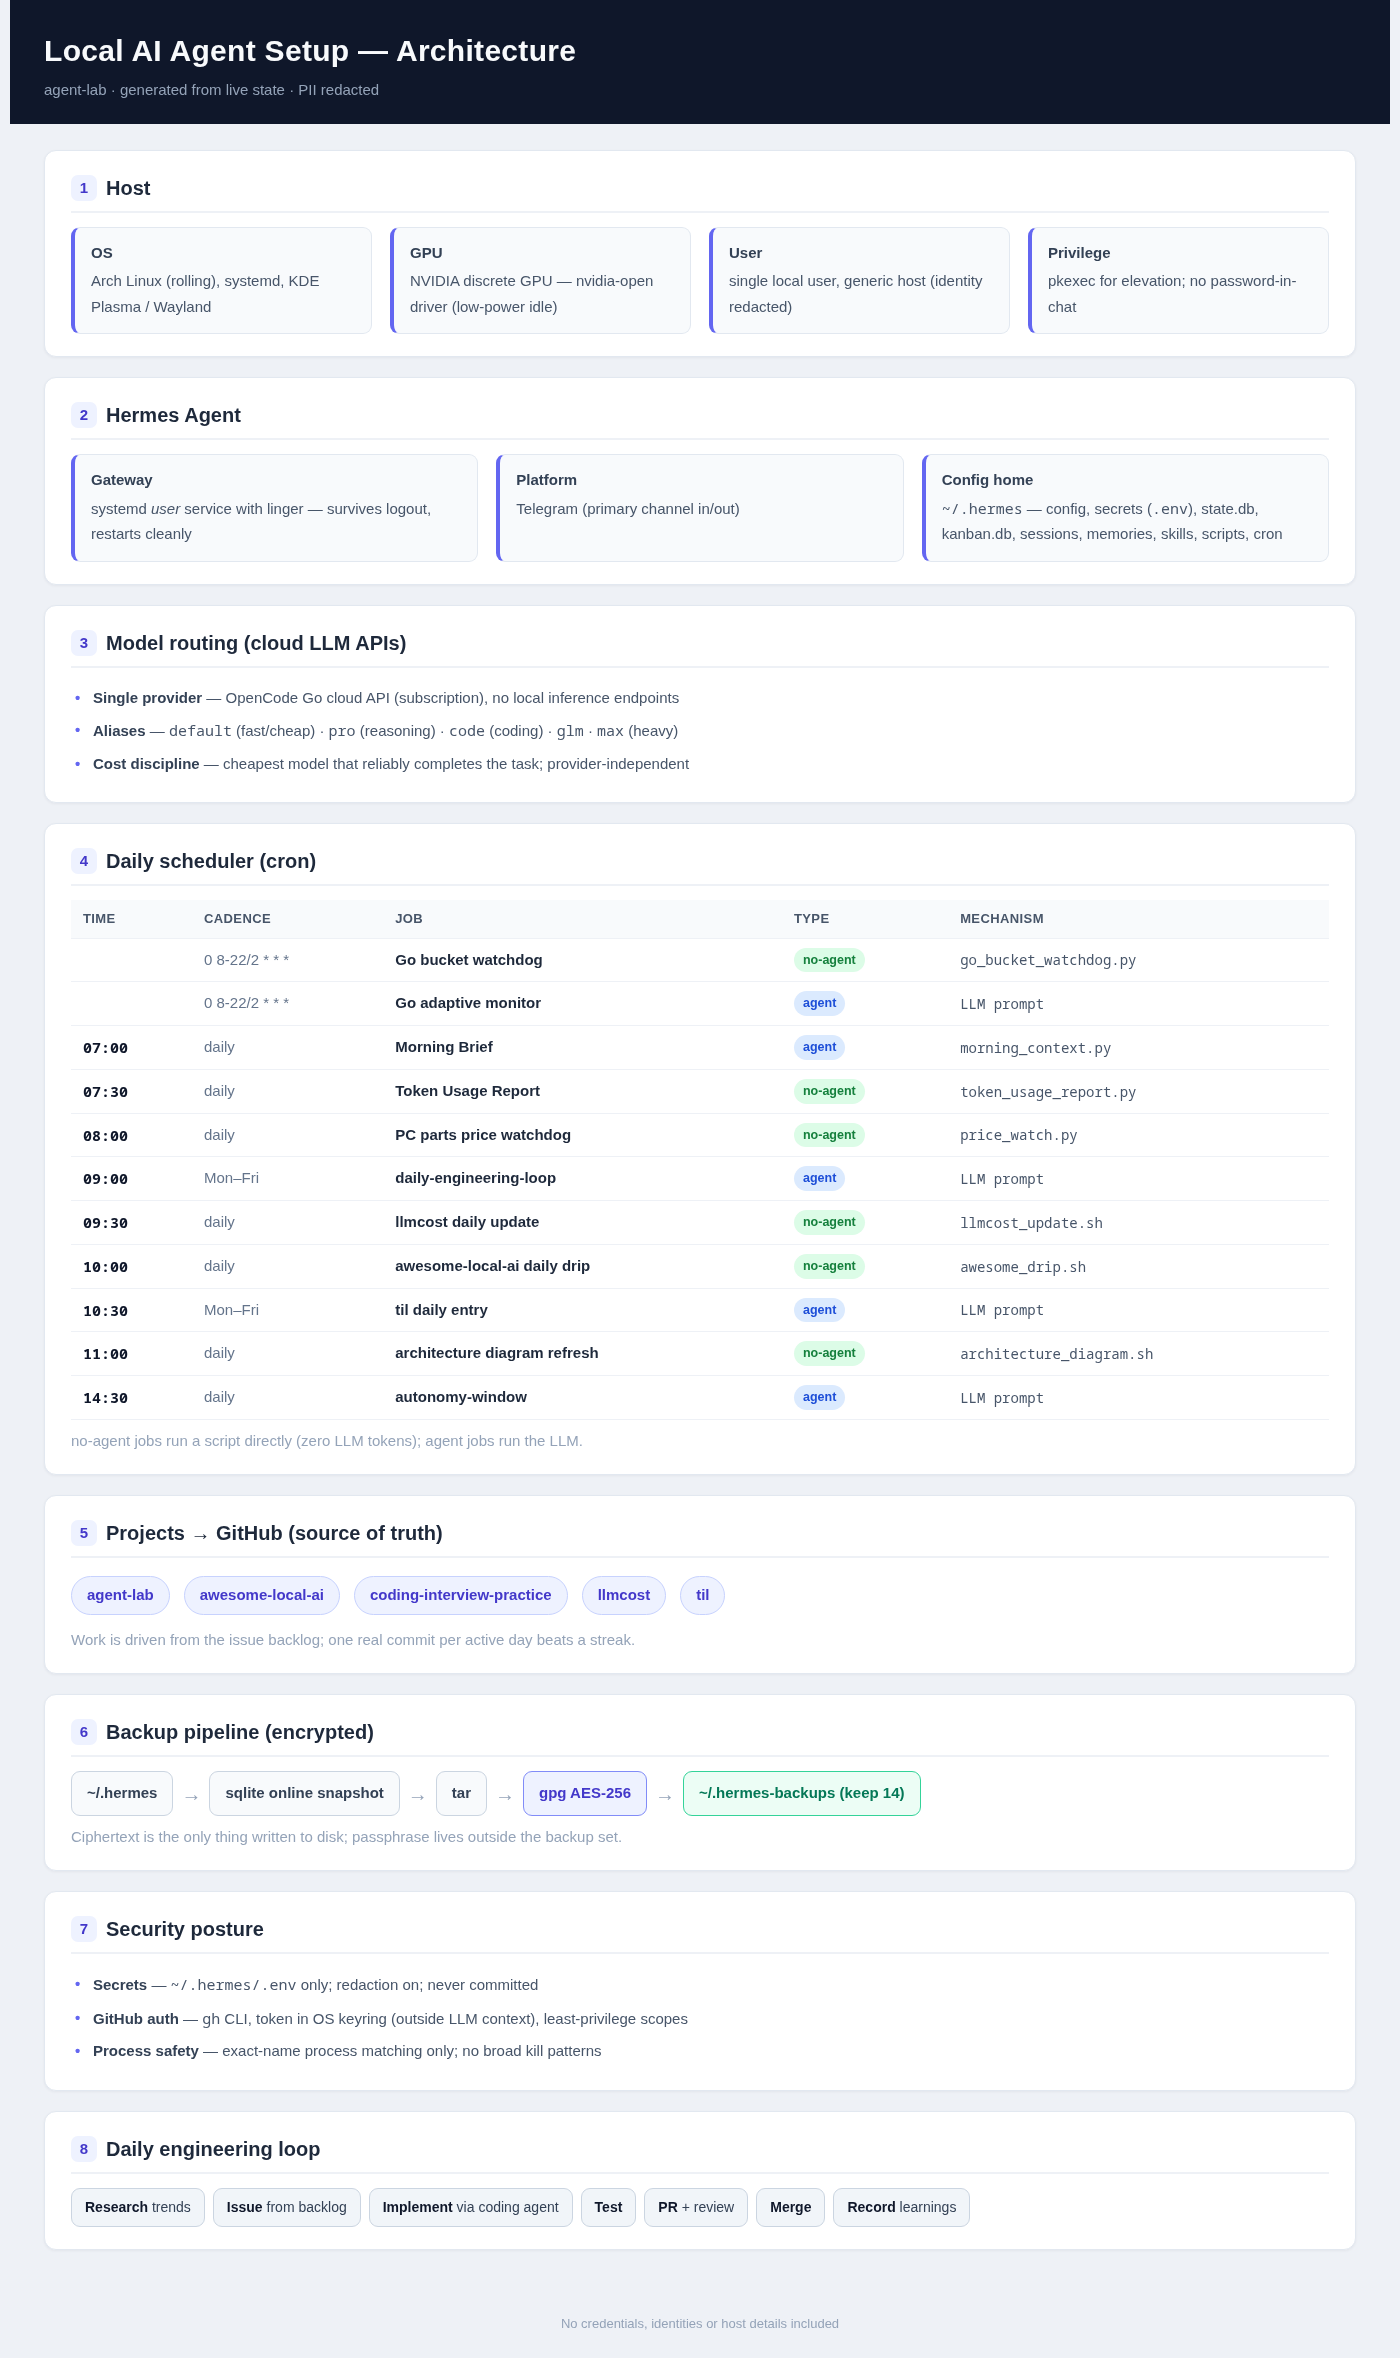
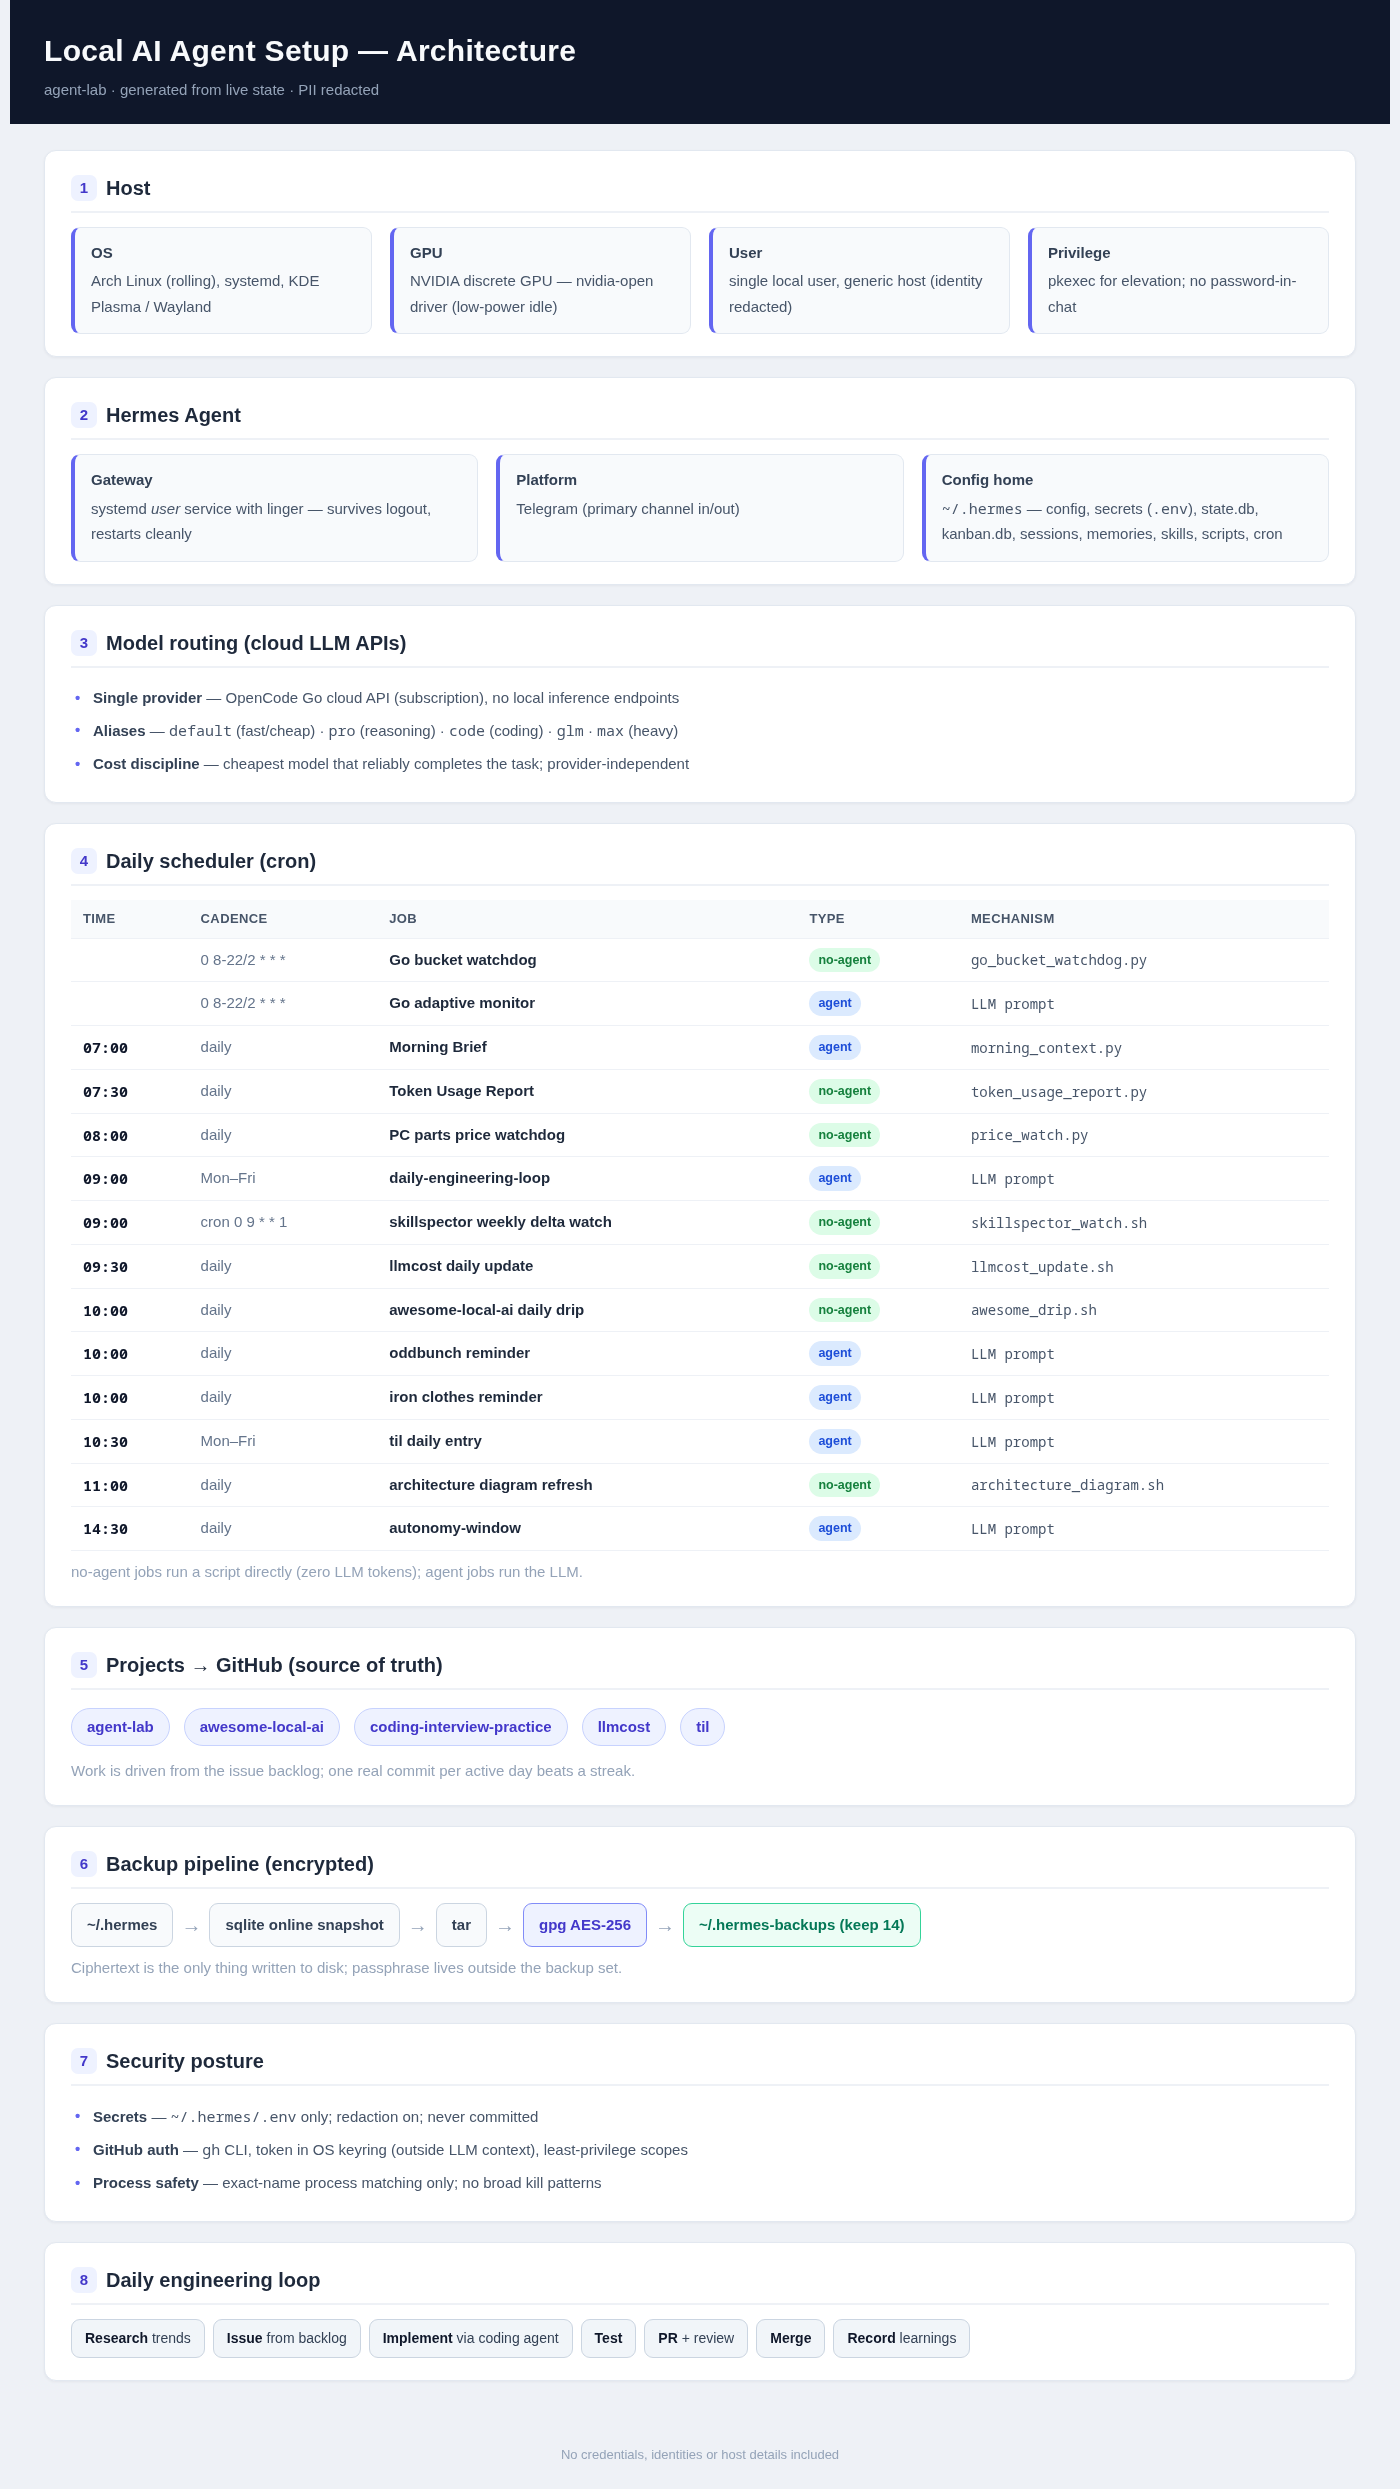
fix(scripts): land validate-config.sh with dead-endpoint refs check (closes #1) (#12)
* chore(scripts): port live validate-config.sh into repo (baseline for dead-endpoint check)

* docs: refresh architecture diagram (auto)

* fix(scripts): tighten dead-endpoint refs check; fail hard on inline comments

OpenCode review pass (2026-08-18) on validate-config.sh:
- check 1 (inline-comment bug class) now exits 1 instead of flagging-but-passing
- port regex [^0-9]:(11434|4000)([^0-9]|$) kills substring false positives (:1143490, 2026:4000)
- strip inline comments before matching so comment-only mentions don't false-flag
- guard missing .env in check 1 with clear SKIP message
- YAML list-dash cleanup in refs-only keyname output

* fix(scripts): address MOA gate nits (loopback-IP catch, trailing-newline, no-target SKIP)

MOA review session 20260818_091123_16d59f (APPROVE_WITH_NITS):...

diff --git a/assets/architecture.html b/assets/architecture.html
@@ -111,7 +111,7 @@
 
   <section>
     <h2><span class="num">4</span>Daily scheduler (cron)</h2>
-    <table><thead><tr><th>Time</th><th>Cadence</th><th>Job</th><th>Type</th><th>Mechanism</th></tr></thead><tbody><tr><td class='t'></td><td class='l'>0 8-22/2 * * *</td><td class='n'>Go bucket watchdog</td><td><span class='badge script' title='runs a script directly, zero LLM tokens'>no-agent</span></td><td class='m'>go_bucket_watchdog.py</td></tr><tr><td class='t'></td><td class='l'>0 8-22/2 * * *</td><td class='n'>Go adaptive monitor</td><td><span class='badge agent' title='runs the LLM agent'>agent</span></td><td class='m'>LLM prompt</td></tr><tr><td class='t'>07:00</td><td class='l'>daily</td><td class='n'>Morning Brief</td><td><span class='badge agent' title='runs the LLM agent'>agent</span></td><td class='m'>morning_context.py</td></tr><tr><td class='t'>07:30</td><td class='l'>daily</td><td class='n'>Token Usage Report</td><td><span class='badge script' title='runs a script directly, zero LLM tokens'>no-agent</span></td><td class='m'>token_usage_report.py</td></tr><tr><td class='t'>08:00</td><td class='l'>daily</td><td class='n'>PC parts price watchdog</td><td><span class='badge script' title='runs a script directly, zero LLM tokens'>no-agent</span></td><td class='m'>price_watch.py</td></tr><tr><td class='t'>09:00</td><td class='l'>Mon–Fri</td><td class='n'>daily-engineering-loop</td><td><span class='badge agent' title='runs the LLM agent'>agent</span></td><td class='m'>LLM prompt</td></tr><tr><td class='t'>09:30</td><td class='l'>daily</td><td class='n'>llmcost daily update</td><td><span class='badge script' title='runs a script directly, zero LLM tokens'>no-agent</span></td><td class='m'>llmcost_update.sh</td></tr><tr><td class='t'>10:00</td><td class='l'>daily</td><td class='n'>awesome-local-ai daily drip</td><td><span class='badge script' title='runs a script directly, zero LLM tokens'>no-agent</span></td><td class='m'>awesome_drip.sh</td></tr><tr><td class='t'>10:30</td><td class='l'>Mon–Fri</td><td class='n'>til daily entry</td><td><span class='badge agent' title='runs the LLM agent'>agent</span></td><td class='m'>LLM prompt</td></tr><tr><td class='t'>11:00</td><td class='l'>daily</td><td class='n'>architecture diagram refresh</td><td><span class='badge script' title='runs a script directly, zero LLM tokens'>no-agent</span></td><td class='m'>architecture_diagram.sh</td></tr><tr><td class='t'>14:30</td><td class='l'>daily</td><td class='n'>autonomy-window</td><td><span class='badge agent' title='runs the LLM agent'>agent</span></td><td class='m'>LLM prompt</td></tr></tbody></table>
+    <table><thead><tr><th>Time</th><th>Cadence</th><th>Job</th><th>Type</th><th>Mechanism</th></tr></thead><tbody><tr><td class='t'></td><td class='l'>0 8-22/2 * * *</td><td class='n'>Go bucket watchdog</td><td><span class='badge script' title='runs a script directly, zero LLM tokens'>no-agent</span></td><td class='m'>go_bucket_watchdog.py</td></tr><tr><td class='t'></td><td class='l'>0 8-22/2 * * *</td><td class='n'>Go adaptive monitor</td><td><span class='badge agent' title='runs the LLM agent'>agent</span></td><td class='m'>LLM prompt</td></tr><tr><td class='t'>07:00</td><td class='l'>daily</td><td class='n'>Morning Brief</td><td><span class='badge agent' title='runs the LLM agent'>agent</span></td><td class='m'>morning_context.py</td></tr><tr><td class='t'>07:30</td><td class='l'>daily</td><td class='n'>Token Usage Report</td><td><span class='badge script' title='runs a script directly, zero LLM tokens'>no-agent</span></td><td class='m'>token_usage_report.py</td></tr><tr><td class='t'>08:00</td><td class='l'>daily</td><td class='n'>PC parts price watchdog</td><td><span class='badge script' title='runs a script directly, zero LLM tokens'>no-agent</span></td><td class='m'>price_watch.py</td></tr><tr><td class='t'>09:00</td><td class='l'>Mon–Fri</td><td class='n'>daily-engineering-loop</td><td><span class='badge agent' title='runs the LLM agent'>agent</span></td><td class='m'>LLM prompt</td></tr><tr><td class='t'>09:00</td><td class='l'>cron 0 9 * * 1</td><td class='n'>skillspector weekly delta watch</td><td><span class='badge script' title='runs a script directly, zero LLM tokens'>no-agent</span></td><td class='m'>skillspector_watch.sh</td></tr><tr><td class='t'>09:30</td><td class='l'>daily</td><td class='n'>llmcost daily update</td><td><span class='badge script' title='runs a script directly, zero LLM tokens'>no-agent</span></td><td class='m'>llmcost_update.sh</td></tr><tr><td class='t'>10:00</td><td class='l'>daily</td><td class='n'>awesome-local-ai daily drip</td><td><span class='badge script' title='runs a script directly, zero LLM tokens'>no-agent</span></td><td class='m'>awesome_drip.sh</td></tr><tr><td class='t'>10:00</td><td class='l'>daily</td><td class='n'>oddbunch reminder</td><td><span class='badge agent' title='runs the LLM agent'>agent</span></td><td class='m'>LLM prompt</td></tr><tr><td class='t'>10:00</td><td class='l'>daily</td><td class='n'>iron clothes reminder</td><td><span class='badge agent' title='runs the LLM agent'>agent</span></td><td class='m'>LLM prompt</td></tr><tr><td class='t'>10:30</td><td class='l'>Mon–Fri</td><td class='n'>til daily entry</td><td><span class='badge agent' title='runs the LLM agent'>agent</span></td><td class='m'>LLM prompt</td></tr><tr><td class='t'>11:00</td><td class='l'>daily</td><td class='n'>architecture diagram refresh</td><td><span class='badge script' title='runs a script directly, zero LLM tokens'>no-agent</span></td><td class='m'>architecture_diagram.sh</td></tr><tr><td class='t'>14:30</td><td class='l'>daily</td><td class='n'>autonomy-window</td><td><span class='badge agent' title='runs the LLM agent'>agent</span></td><td class='m'>LLM prompt</td></tr></tbody></table>
     <p class="muted" style="margin-top:10px">no-agent jobs run a script directly (zero LLM tokens); agent jobs run the LLM.</p>
   </section>
 
